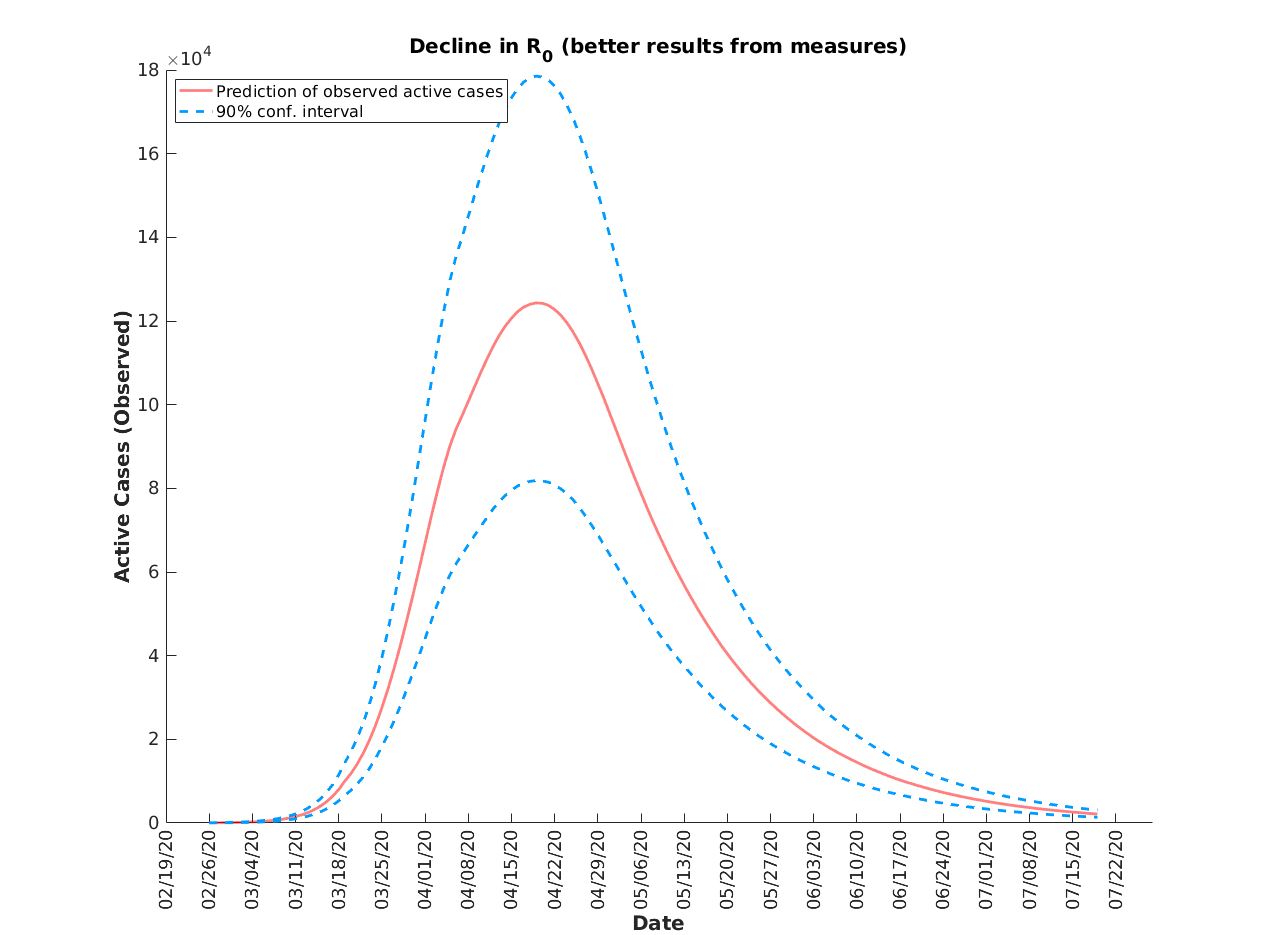
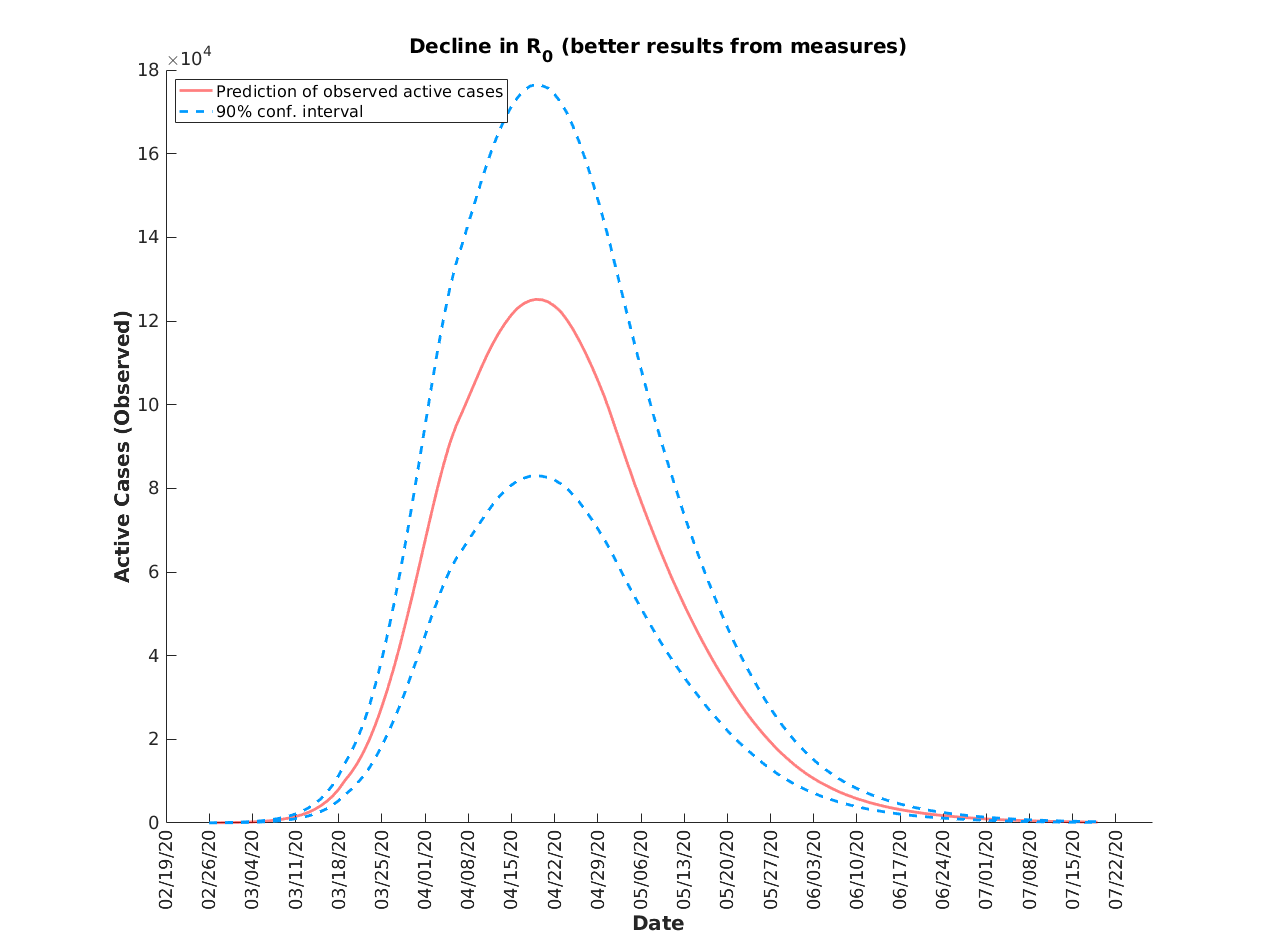
Add files via upload

diff --git a/COVID19 Models/Germany/COVID19_Germany.m b/COVID19 Models/Germany/COVID19_Germany.m
@@ -106,8 +106,8 @@ NewCases_optimistic = diff(TotalCases_optimistic');
 
 % converts from h period of time to daily period of time
 NewCasesDaily_optimistic = squeeze(sum(reshape(NewCases_optimistic, [2, size(NewCases_optimistic,1)*h, size(NewCases_optimistic,2)])))';
-TotalCasesDaily_optimistic= TotalCases(:, 1:(1/h):T/h);    
-ActiveCasesDaily_optimistic= ActiveCases(:, 1:(1/h):T/h);
+TotalCasesDaily_optimistic= TotalCases_optimistic(:, 1:(1/h):T/h);    
+ActiveCasesDaily_optimistic= ActiveCases_optimistic(:, 1:(1/h):T/h);
 
 % build and save plots
 buildPlots(NewCasesDaily_optimistic, TotalCasesDaily_optimistic, ActiveCasesDaily_optimistic, newcases_hist, dates, horizon, detection_time, ...
@@ -126,8 +126,8 @@ NewCases_pessimistic = diff(TotalCases_pessimistic');
 
 % converts from h period of time to daily period of time
 NewCasesDaily_pessimistic = squeeze(sum(reshape(NewCases_pessimistic, [2, size(NewCases_pessimistic,1)*h, size(NewCases_pessimistic,2)])))';
-TotalCasesDaily_pessimistic= TotalCases(:, 1:(1/h):T/h);    
-ActiveCasesDaily_pessimistic= ActiveCases(:, 1:(1/h):T/h);
+TotalCasesDaily_pessimistic= TotalCases_pessimistic(:, 1:(1/h):T/h);    
+ActiveCasesDaily_pessimistic= ActiveCases_pessimistic(:, 1:(1/h):T/h);
 
 % build and save plots
 buildPlots(NewCasesDaily_pessimistic, TotalCasesDaily_pessimistic, ActiveCasesDaily_pessimistic, newcases_hist, dates, horizon, detection_time, ...
@@ -183,5 +183,5 @@ title('Probability for getting cleared of the virus, by days')
 print('./Figures/InfectedPeriodPDF', '-dpng', '-r0')
 
 %% save the results
-% save(strcat('Italy_', num2str(sim_num)))
+% save(strcat('results_', num2str(sim_num)))
 
